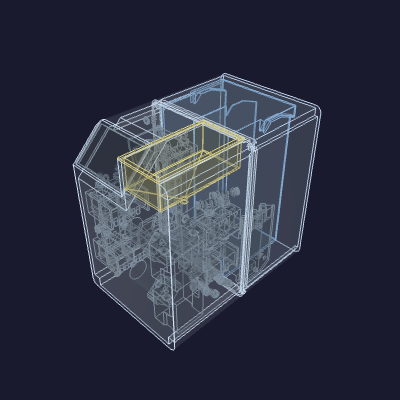
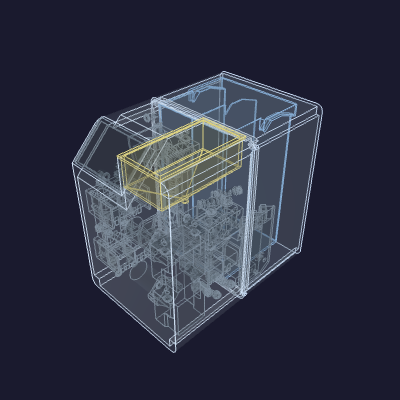
lite: slide the front cluster +7 mm into the reservoir gap, shrinking the box front (325 -> 318)
The front zone (pumps + bib/nozzle stack) sat nose-to-tail with an 8 mm gap to
the reservoir for the seam. Slide the cluster back +7 mm and shrink that gap to
1 mm so the reservoir stays put (res_front = cluster_back + gap is unchanged) and
the box front wall comes in 7 mm. bag-circuit moves +9 mm so it clears the new
front line and the pumps alone set the front edge. The seam plane now tracks the
contents (enclosure._split_y, midway between the cluster back and the reservoir
front) instead of a fixed plane the trays would slide across.

Box 215.5 x 318 x 305; funnel 591 mL; content-vs-shell clear, halves fit the bed.

Changed region(s): [[0.18, 0.18, 0.81, 0.9], [0.33, 0.69, 0.36, 0.72]]

diff --git a/pie-in-the-sky/lite/enclosure-assembly/_contents.py b/pie-in-the-sky/lite/enclosure-assembly/_contents.py
@@ -26,7 +26,7 @@ zone, ahead of the reservoir:
     its long footprint side lies along the back wall — wide in X, shallow in Y —
     back face on the split, against the reservoir.
   * Front-left:  the bag-circuit tray stood vertical, narrow in X, dropped into the
-    strip left of the pump motors with its front flush to the pump fronts.
+    strip left of the pump motors, just behind the pump fronts.
   * Front-right, high:  the hopper funnel (added in the assembly, derived from the
     enclosure) — a narrow-X, deep-Y slot dropping over the short trays.
   * +X back band:  the power tray (Mean Well PSU + Wago distribution + ground
@@ -79,7 +79,8 @@ FLOOR_LIFT = 14.0
 # Front-zone Y stations. The pumps sit in the right-front void; the bib/nozzle
 # stack sits with its front against the pump backs, and the stack's depth sets the
 # split plane (the reservoir seats behind that).
-PUMP_FRONT_Y = 25.0        # pump front face — also the box front edge (the frontmost content)
+PUMP_FRONT_Y = 32.0        # pump front face (and box front edge): the front cluster is slid
+                           # back until the bib/nozzle backs nearly meet the reservoir front
 PUMP_HEAD_X = 200.0        # the pump heads' +X face (the void's bottom-right corner)
 STACK_TO_PUMP_GAP = 1.0    # gap from the pump backs to the short-tray stack front (Y)
 STACK_GAP = 2.0            # vertical gap between stacked parts (Z)
@@ -97,7 +98,7 @@ SHORT_X = 135.0            # short-tray / funnel column left edge (clear of sour
 SRC_X_INSET = 12.0
 STACK_OVERLAP = 34.0      # nozzle drops this far into bib — clean elbow-to-elbow interleave
 # Reservoir seats behind the front zone; the split falls in the gap between them.
-RES_TO_SPLIT_GAP = 8.0     # reservoir front face behind the deepest front tray
+RES_TO_SPLIT_GAP = 1.0     # reservoir front behind the cluster back — just the seam clearance
 # Gap from the reservoir's real +X wall to the power tray beside it.
 POWER_GAP_X = 2.0
 
@@ -178,10 +179,10 @@ def build():
     placed["source-select"] = (src, COLORS["source-select"])
 
     # --- Front-left void: bag-circuit stood vertical (rot +90 about Y), narrow in
-    # X so it drops into the strip left of the pump motors, its front flush with the
-    # pump fronts (the box front edge).
+    # X so it drops into the strip left of the pump motors, sitting just behind the
+    # pump fronts so the pumps alone set the box front edge.
     bag = _place(_rot(_load(TRAY_STEPS["bag-circuit"]), (0, 1, 0), 90.0),
-                 xmin=X_INSET, ymin=PUMP_FRONT_Y, zmin=FLOOR_LIFT)
+                 xmin=X_INSET, ymin=PUMP_FRONT_Y + 2.0, zmin=FLOOR_LIFT)
     placed["bag-circuit"] = (bag, COLORS["bag-circuit"])
 
     # --- Reservoir-pockets, back, doorway facing the cabinet back. Rotate +90

diff --git a/pie-in-the-sky/lite/enclosure/enclosure.py b/pie-in-the-sky/lite/enclosure/enclosure.py
@@ -102,7 +102,8 @@ display_pcb_cut_through = 3.0    # extra depth past the facet back, cutting the
 # the opening). It rides in the gap between the front zone (the trays + pumps,
 # whose backs land just ahead of it) and the reservoir (seated just behind it),
 # while staying behind the display housing so the facet is whole in the front half.
-split_y = 176.0
+# Computed live from the contents (see `_split_y`) so it tracks the cluster as it
+# packs, rather than a fixed plane that the trays could slide across.
 
 # Split + boss parameters — every dimension sized to its function. The seam is a
 # Y plane; the front half's full-wall rear lip telescopes into the back; four
@@ -167,6 +168,21 @@ def _round_corner_y(solid, xc, zc, r):
 
 # --- box dimensions, driven by the placed contents -------------------------
 
+# The reservoir and the power tray beside it live in the BACK half; everything
+# else is front-zone content that must stay wholly in the front half.
+_BACK_ZONE = {"reservoir-pockets", "power-tray"}
+
+
+def _split_y(placed=None):
+    """Seam Y, riding midway in the gap between the front cluster's back (the
+    deepest non-back-zone content) and the reservoir front, so the trays sit
+    wholly in the front half and the reservoir wholly in the back half."""
+    placed = placed if placed is not None else _contents.build()
+    front_back = max(s.BoundingBox().ymax for k, (s, _c) in placed.items() if k not in _BACK_ZONE)
+    res_front = placed["reservoir-pockets"][0].BoundingBox().ymin
+    return 0.5 * (front_back + res_front)
+
+
 def _dims():
     placed = _contents.build()
     bbs = [s.BoundingBox() for s, _c in placed.values()]
@@ -194,7 +210,7 @@ def _dims():
     outer = (ox0, ox1, oy0, oy1, oz0, oz1)
     _fa, _fn, _fo, _fdy, _fdz = _facet_geom(outer)
     facet_back_y = oy0 + _fdy + display_facet_thickness * math.sqrt(2.0)
-    y_joint = max(facet_back_y + 2.0, split_y)
+    y_joint = max(facet_back_y + 2.0, _split_y(placed))
     res_front_y = placed["reservoir-pockets"][0].BoundingBox().ymin
     return inner, outer, y_joint, res_front_y
 
@@ -327,7 +343,7 @@ def _hopper_hole(inner, outer):
     x1 = pod_in - 1.0                                        # flush to the top-right corner pod
     x0 = ox0 + display_facet_x + wall                        # flush past the display facet gusset
     _a, _n, _o, dy, _dz = _facet_geom(outer)
-    y_joint = max(oy0 + dy + display_facet_thickness * math.sqrt(2.0) + 2.0, split_y)
+    y_joint = max(oy0 + dy + display_facet_thickness * math.sqrt(2.0) + 2.0, _split_y())
     y1 = y_joint - wall - 2.0                                # just in front of the seam lip
     return x0, x1, iy0, y1
 

diff --git a/pie-in-the-sky/lite/enclosure/README.md b/pie-in-the-sky/lite/enclosure/README.md
@@ -93,7 +93,7 @@ from the same rectangle (`_hopper_hole`), so the two always match.
 
 ## Dimensions
 
-Outer envelope [215.5 mm](LITE_OUTER_X) × [325.2 mm](LITE_OUTER_Y) × [305 mm](LITE_OUTER_Z)
+Outer envelope [215.5 mm](LITE_OUTER_X) × [318.2 mm](LITE_OUTER_Y) × [305 mm](LITE_OUTER_Z)
 (X × Y × Z) — narrower and shorter than the Kitchen edition (289 × 342 × 310) in
 X and Z, but a touch deeper in Y: with no side column beside the reservoir, the
 trays and pumps pack into a deep front zone instead, trading width for depth.

diff --git a/pie-in-the-sky/lite/printed-parts/funnel/README.md b/pie-in-the-sky/lite/printed-parts/funnel/README.md
@@ -3,7 +3,7 @@
 The removable hopper you pour SodaStream concentrate into. It drains to **V-B**
 on the [source-select tray](/hardware/printed-parts/valve-manifold/source-select-tray/)
 — fluid topology [segment 4](/hardware/topology/fluid-topology.md),
-"Hopper funnel bottom → V-B-I". A **pour buffer** holding ≈ [604 mL](HOPPER_CAP)
+"Hopper funnel bottom → V-B-I". A **pour buffer** holding ≈ [591 mL](HOPPER_CAP)
 to the brim — generous enough to take a full pour at once while the pump draws it
 on to a bag.
 
